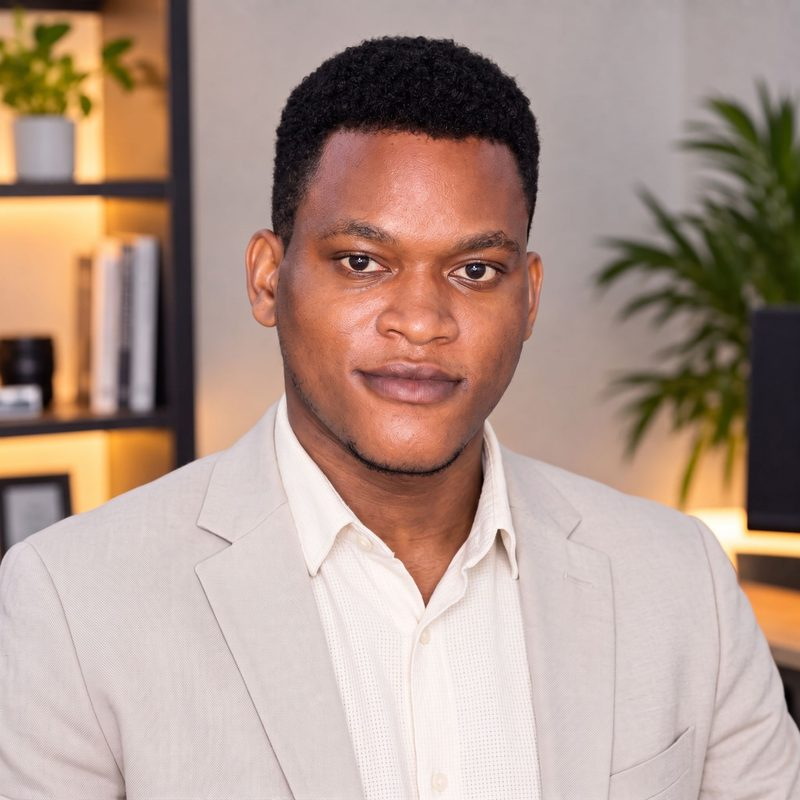
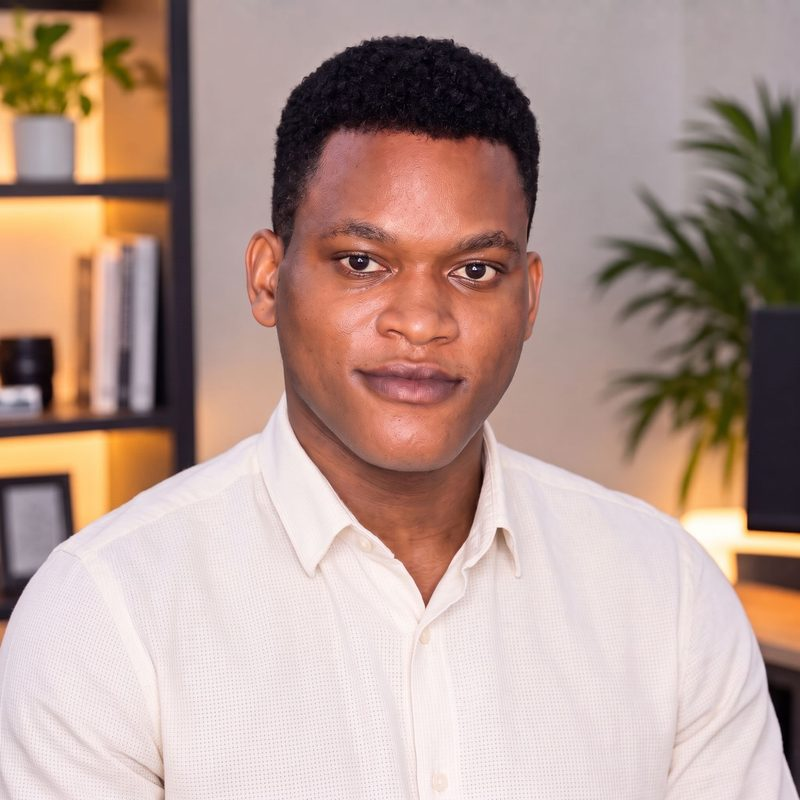
Nouvelle photo, mise en page mobile et hero retravaillé
- Photo en chemise à la place de celle avec la veste (portrait, À propos, visuel Frontend)
- Espacements réduits et blocs empilés proprement sur mobile
- Hero mobile : MAHMA en entier, rôle avant l'accroche, prénom lisible sur la photo
- Titre principal lu en premier (lecteurs d'écran, référencement)
- « Momodev. » en police manuscrite à la place du logo SVG

diff --git a/resources/js/Components/HeroSection.vue b/resources/js/Components/HeroSection.vue
@@ -1,33 +1,60 @@
 <template>
-    <section id="hero" class="grid-lines relative flex min-h-[820px] flex-col overflow-hidden bg-hero text-white">
+    <section id="hero" class="grid-lines relative flex min-h-[640px] flex-col overflow-hidden bg-hero text-white sm:min-h-[820px]">
         <!-- Nom géant en fond, glisse au défilement -->
-        <div aria-hidden="true" class="pointer-events-none absolute inset-x-0 top-[70px] text-center" data-parallax-x>
-            <span data-hero class="disp block whitespace-nowrap text-[clamp(120px,21vw,330px)] text-white/[.14]">Mahma</span>
+        <div aria-hidden="true" class="pointer-events-none absolute inset-x-0 top-[210px] text-center sm:top-[70px]" data-parallax-x>
+            <span data-hero class="disp block whitespace-nowrap text-[clamp(72px,23vw,330px)] text-white/[.14]">Mahma</span>
         </div>
 
         <!-- Portrait détouré -->
-        <div class="pointer-events-none absolute inset-x-0 bottom-0 flex justify-center" data-parallax-y>
+        <div class="pointer-events-none absolute inset-x-0 bottom-0 flex justify-end sm:justify-center" data-parallax-y>
             <img
                 :src="portrait"
                 :alt="t('hero.portraitAlt')"
                 width="1100"
                 height="1059"
                 data-hero-portrait
-                class="block h-auto w-[min(520px,92%)] lg:w-[min(720px,100%)]"
+                class="block h-auto w-[min(360px,85%)] sm:w-[min(520px,92%)] lg:w-[min(720px,100%)]"
             >
         </div>
 
+        <!-- Assombrit le bas du hero sur mobile pour garder le prénom lisible sur la photo -->
+        <div aria-hidden="true" class="pointer-events-none absolute inset-x-0 bottom-0 h-44 bg-gradient-to-t from-black/45 to-transparent sm:hidden" />
+
         <NavigationBar class="relative z-10" @open-menu="$emit('open-menu')" />
 
-        <div class="relative z-10 mx-auto flex w-full max-w-page flex-1 flex-col justify-between gap-10 px-6 pb-10 pt-12">
-            <div class="flex flex-wrap items-start justify-between gap-6">
-                <p data-hero class="m-0 max-w-[300px] text-[13px] font-bold uppercase leading-snug tracking-[.02em] text-hero-ink">
-                    {{ t('hero.tagline') }}
-                </p>
+        <div class="relative z-10 mx-auto flex w-full max-w-page flex-1 flex-col justify-between gap-8 px-6 pb-8 pt-8 sm:gap-10 sm:pb-10 sm:pt-12">
+            <!-- Nom en premier dans le code (lecteurs d'écran, référencement), affiché en bas grâce à `order` -->
+            <div class="order-2 flex flex-wrap items-end justify-between gap-6">
+                <div class="flex flex-col gap-1.5">
+                    <span data-hero aria-hidden="true" class="hidden text-[13px] font-bold text-hero-ink sm:inline">©{{ year }} — {{ t('hero.role') }}</span>
+                    <h1 data-hero class="disp text-[clamp(64px,13vw,190px)] text-white [text-shadow:0_2px_24px_rgba(0,0,0,.25)]">
+                        {{ profile.firstName }}<span class="sr-only"> Mahma — {{ t('hero.role') }}</span>
+                    </h1>
+                </div>
+                <a href="#contact" data-hero class="hidden w-[260px] items-center gap-3 bg-[#111] p-2.5 text-white hover:text-white sm:flex">
+                    <img :src="photo" alt="" class="h-[52px] w-[52px] object-cover">
+                    <span class="flex flex-1 flex-col text-xs leading-snug">
+                        <span class="text-[#A6A6A1]">{{ t('hero.talk') }}</span>
+                        <strong class="text-sm">{{ profile.shortName }}</strong>
+                        <span class="text-[#A6A6A1]">Flutter · Vue · Next · Laravel</span>
+                    </span>
+                    <span class="inline-flex h-8 w-8 items-center justify-center bg-white text-[#111]">
+                        <svg width="14" height="14" viewBox="0 0 24 24" fill="none" stroke="currentColor" stroke-width="2.4" stroke-linecap="round" aria-hidden="true"><path d="M7 17L17 7M8 7h9v9" /></svg>
+                    </span>
+                </a>
+            </div>
+
+            <div class="order-1 flex flex-wrap items-start justify-between gap-6">
+                <div class="flex flex-col gap-2">
+                    <span data-hero aria-hidden="true" class="text-[13px] font-bold text-hero-ink sm:hidden">©{{ year }} — {{ t('hero.role') }}</span>
+                    <p data-hero class="m-0 max-w-[300px] text-[13px] font-bold uppercase leading-snug tracking-[.02em] text-hero-ink">
+                        {{ t('hero.tagline') }}
+                    </p>
+                </div>
                 <a
                     :href="`#${heroProject.id}`"
                     data-hero
-                    class="block w-[170px] bg-white p-2 text-[#111] shadow-[0_10px_30px_rgba(0,0,0,.18)] hover:text-[#111]"
+                    class="hidden w-[170px] bg-white p-2 sm:block text-[#111] shadow-[0_10px_30px_rgba(0,0,0,.18)] hover:text-[#111]"
                     :aria-label="t('hero.viewProject', { name: tr(heroProject.name) })"
                     @click.prevent="$emit('open-project', heroProject.id)"
                 >
@@ -37,24 +64,6 @@
                     <span class="flex justify-between px-0.5 pt-2 text-[11px]">
                         <span><span class="text-[#E04A1F]">●</span> {{ tr(heroProject.name) }}</span>
                         <span>/{{ tr(heroProject.cat) }}</span>
-                    </span>
-                </a>
-            </div>
-
-            <div class="flex flex-wrap items-end justify-between gap-6">
-                <div class="flex flex-col gap-1.5">
-                    <span data-hero class="text-[13px] font-bold text-hero-ink">©{{ year }} — {{ t('hero.role') }}</span>
-                    <h1 data-hero class="disp text-[clamp(76px,13vw,190px)] text-white">{{ profile.firstName }}</h1>
-                </div>
-                <a href="#contact" data-hero class="flex w-[260px] items-center gap-3 bg-[#111] p-2.5 text-white hover:text-white">
-                    <img :src="photo" alt="" class="h-[52px] w-[52px] object-cover">
-                    <span class="flex flex-1 flex-col text-xs leading-snug">
-                        <span class="text-[#A6A6A1]">{{ t('hero.talk') }}</span>
-                        <strong class="text-sm">{{ profile.shortName }}</strong>
-                        <span class="text-[#A6A6A1]">Flutter · Vue · Next · Laravel</span>
-                    </span>
-                    <span class="inline-flex h-8 w-8 items-center justify-center bg-white text-[#111]">
-                        <svg width="14" height="14" viewBox="0 0 24 24" fill="none" stroke="currentColor" stroke-width="2.4" stroke-linecap="round" aria-hidden="true"><path d="M7 17L17 7M8 7h9v9" /></svg>
                     </span>
                 </a>
             </div>

diff --git a/resources/js/Components/AboutSection.vue b/resources/js/Components/AboutSection.vue
@@ -1,6 +1,6 @@
 <template>
     <section id="about">
-        <div class="mx-auto flex max-w-page flex-col gap-14 px-6 py-[110px]">
+        <div class="mx-auto flex max-w-page flex-col gap-10 px-6 py-16 md:gap-14 md:py-[110px]">
             <div class="flex flex-wrap items-start justify-between gap-8">
                 <div class="flex flex-col gap-5">
                     <span class="lbl">{{ t('about.label') }}</span>
@@ -13,22 +13,22 @@
                     :src="work"
                     :alt="t('about.workAlt')"
                     data-reveal="2"
-                    class="block h-[200px] w-[200px] object-cover"
+                    class="block h-[140px] w-[140px] object-cover md:h-[200px] md:w-[200px]"
                     loading="lazy"
                 >
             </div>
 
-            <div class="flex flex-wrap items-start gap-10">
-                <div class="flex flex-[1_1_320px] justify-center">
+            <div class="flex flex-wrap items-start gap-8 md:gap-10">
+                <div class="flex flex-[1_1_280px] justify-center">
                     <img
                         :src="photo"
                         :alt="t('about.photoAlt')"
                         data-reveal="1"
-                        class="block h-[360px] w-[300px] object-cover"
+                        class="block aspect-[5/6] h-auto w-full max-w-[300px] object-cover"
                         loading="lazy"
                     >
                 </div>
-                <div class="flex flex-[1_1_420px] flex-col gap-5">
+                <div class="flex min-w-0 flex-[1_1_300px] flex-col gap-5">
                     <p data-reveal="0" class="m-0 text-sm font-bold uppercase leading-snug">
                         {{ t('about.intro', { name: profile.fullName }) }}
                     </p>
@@ -38,9 +38,9 @@
                             v-for="(stat, i) in stats"
                             :key="stat.value"
                             :data-reveal="i"
-                            class="flex items-center gap-7 bg-surface px-6 py-[18px]"
+                            class="flex items-center gap-5 bg-surface px-5 py-4 md:gap-7 md:px-6 md:py-[18px]"
                         >
-                            <span class="disp min-w-[110px] text-[52px]">{{ stat.value }}</span>
+                            <span class="disp min-w-[76px] text-[40px] md:min-w-[110px] md:text-[52px]">{{ stat.value }}</span>
                             <div>
                                 <div class="text-xs font-bold uppercase"><span class="text-accent">✳</span> {{ tr(stat.label) }}</div>
                                 <div class="text-sm text-muted">{{ tr(stat.text) }}</div>

diff --git a/resources/js/Components/ProjectSection.vue b/resources/js/Components/ProjectSection.vue
@@ -1,6 +1,6 @@
 <template>
     <section id="projects" class="border-t border-line">
-        <div class="mx-auto flex max-w-page flex-col gap-12 px-6 py-[110px]">
+        <div class="mx-auto flex max-w-page flex-col gap-10 px-6 py-16 md:gap-12 md:py-[110px]">
             <div class="flex flex-wrap items-end justify-between gap-6">
                 <div class="flex flex-col gap-5">
                     <span class="lbl">{{ t('projects.label') }}</span>
@@ -22,7 +22,7 @@
                     class="card-zoom flex scroll-mt-24 flex-col gap-3 bg-surface p-2.5 text-ink hover:text-ink lg:[&:nth-child(3n+2)]:mt-20"
                     @click.prevent="$emit('open', project.id)"
                 >
-                    <div class="h-[340px] overflow-hidden">
+                    <div class="h-[280px] overflow-hidden md:h-[340px]">
                         <div class="flex h-full items-center justify-center p-5" :class="project.bg">
                             <img
                                 v-if="project.image"
@@ -45,7 +45,7 @@
                 </a>
             </div>
 
-            <div class="mt-6 flex flex-col">
+            <div class="flex flex-col md:mt-6">
                 <h3 class="mb-3 text-xs font-bold uppercase tracking-[.06em] text-muted">{{ t('projects.others') }}</h3>
                 <a
                     v-for="project in otherProjects"
@@ -53,10 +53,10 @@
                     :key="project.id"
                     :href="`#${project.id}`"
                     data-reveal="0"
-                    class="group flex scroll-mt-24 flex-wrap items-center gap-x-8 gap-y-2 border-t border-line py-[22px] text-ink last:border-b hover:text-ink"
+                    class="group flex scroll-mt-24 flex-wrap items-center gap-x-8 gap-y-1.5 border-t border-line py-5 md:gap-y-2 md:py-[22px] text-ink last:border-b hover:text-ink"
                     @click.prevent="$emit('open', project.id)"
                 >
-                    <span class="flex-[0_0_280px] font-display text-[22px] font-extrabold uppercase transition-colors duration-300 group-hover:text-accent">
+                    <span class="w-full font-display text-xl md:w-auto md:flex-[0_0_280px] md:text-[22px] font-extrabold uppercase transition-colors duration-300 group-hover:text-accent">
                         {{ tr(project.name) }}
                     </span>
                     <span class="flex-[1_1_360px] text-sm text-muted">{{ tr(project.summary) }}</span>

diff --git a/resources/js/Components/SkillsSection.vue b/resources/js/Components/SkillsSection.vue
@@ -1,6 +1,6 @@
 <template>
     <section id="skills" class="border-t border-line">
-        <div class="mx-auto flex max-w-page flex-col gap-14 px-6 py-[110px]">
+        <div class="mx-auto flex max-w-page flex-col gap-10 px-6 py-16 md:gap-14 md:py-[110px]">
             <div class="flex flex-wrap gap-x-20 gap-y-6">
                 <span class="lbl">{{ t('skills.label') }}</span>
                 <h2 class="disp text-[clamp(42px,6vw,84px)]">
@@ -15,12 +15,12 @@
                     v-for="(skill, i) in skills"
                     :key="skill.image"
                     data-reveal="0"
-                    class="group flex flex-wrap gap-x-10 gap-y-6 border-t border-line py-9"
+                    class="group flex flex-wrap gap-x-10 gap-y-4 border-t border-line py-7 md:gap-y-6 md:py-9"
                 >
-                    <span class="flex-[0_0_80px] text-[13px] font-semibold">
+                    <span class="w-full text-[13px] font-semibold md:w-auto md:flex-[0_0_80px]">
                         <span class="text-accent">●</span> {{ String(i + 1).padStart(3, '0') }}
                     </span>
-                    <div class="flex flex-[1_1_380px] flex-col gap-3.5">
+                    <div class="flex min-w-0 flex-[1_1_380px] flex-col gap-3.5">
                         <h3
                             class="disp text-[clamp(28px,3.4vw,44px)] transition-colors duration-300 group-hover:text-accent"
                             :class="{ 'text-accent': i === 0 }"
@@ -32,7 +32,7 @@
                             <span v-for="(tag, j) in skill.tags" :key="j" class="bg-chip px-2.5 py-1.5">{{ tr(tag) }}</span>
                         </div>
                     </div>
-                    <div class="card-zoom h-[190px] flex-[0_1_300px] overflow-hidden" :class="skill.bg">
+                    <div class="card-zoom h-[200px] w-full overflow-hidden md:h-[190px] md:w-auto md:flex-[0_1_300px]" :class="skill.bg">
                         <img :src="skill.image" :alt="tr(skill.alt)" class="block h-full w-full object-cover" loading="lazy">
                     </div>
                 </article>

diff --git a/resources/js/Components/ContactSection.vue b/resources/js/Components/ContactSection.vue
@@ -1,18 +1,18 @@
 <template>
     <section id="contact">
-        <div class="mx-auto flex max-w-page flex-col gap-12 px-6 pb-20 pt-[110px]">
+        <div class="mx-auto flex max-w-page flex-col gap-8 px-6 pb-12 pt-16 md:gap-12 md:pb-20 md:pt-[110px]">
             <div class="flex flex-wrap items-end justify-between gap-6">
-                <h2 class="disp text-[clamp(56px,10vw,150px)]">
+                <h2 class="disp text-[clamp(44px,10vw,150px)]">
                     <span data-reveal="0" class="block">{{ t('contact.title1') }}</span>
                     <span data-reveal="1" class="block text-grey">{{ t('contact.title2') }}</span>
                 </h2>
                 <span class="text-[13px] font-semibold">{{ t('contact.reply') }}</span>
             </div>
 
-            <div class="grid-lines flex flex-wrap items-center gap-10 bg-hero p-[clamp(20px,4vw,48px)]">
+            <div class="grid-lines flex flex-wrap items-center gap-8 bg-hero p-4 sm:p-[clamp(20px,4vw,48px)] md:gap-10">
                 <form
                     data-reveal="0"
-                    class="flex max-w-[420px] flex-[1_1_340px] flex-col gap-3.5 bg-surface p-6 text-ink"
+                    class="flex min-w-0 max-w-[420px] flex-[1_1_300px] flex-col gap-3.5 bg-surface p-5 text-ink md:p-6"
                     @submit.prevent="submitForm"
                 >
                     <span class="font-display text-lg font-extrabold uppercase">{{ t('contact.formTitle') }}</span>
@@ -40,7 +40,7 @@
                     </p>
                 </form>
 
-                <div class="flex flex-[1_1_340px] flex-col gap-5 text-white">
+                <div class="flex min-w-0 flex-[1_1_300px] flex-col gap-5 text-white">
                     <p class="disp text-[clamp(36px,5vw,68px)]">
                         {{ t('contact.idea') }}
                         <span class="block text-hero-ink">{{ t('contact.build') }}</span>

diff --git a/resources/js/Components/AppFooter.vue b/resources/js/Components/AppFooter.vue
@@ -1,7 +1,7 @@
 <template>
     <footer class="bg-inv text-inv-text">
-        <div class="mx-auto flex max-w-page flex-col gap-11 px-6 pt-[72px]">
-            <div data-reveal="0" class="flex flex-wrap items-end justify-between gap-6 border-b border-inv-line pb-10">
+        <div class="mx-auto flex max-w-page flex-col gap-8 px-6 pt-12 md:gap-11 md:pt-[72px]">
+            <div data-reveal="0" class="flex flex-wrap items-end justify-between gap-6 border-b border-inv-line pb-8 md:pb-10">
                 <div class="flex flex-col gap-2.5">
                     <span class="font-script text-[46px] font-bold leading-none">Momodev<span class="text-accent">.</span></span>
                     <p class="m-0 max-w-[400px] text-[15px] text-inv-muted">{{ t('footer.pitch') }}</p>
@@ -15,7 +15,7 @@
                 </a>
             </div>
 
-            <div data-reveal="1" class="flex flex-wrap gap-x-24 gap-y-8 text-sm">
+            <div data-reveal="1" class="grid grid-cols-2 gap-x-8 gap-y-8 text-sm sm:flex sm:flex-wrap sm:gap-x-24">
                 <div class="footer-col">
                     <span class="footer-title">{{ t('footer.nav') }}</span>
                     <a v-for="link in navLinks" :key="link.href" :href="link.href">{{ t(link.key) }}</a>

diff --git a/resources/js/Components/ExperienceSection.vue b/resources/js/Components/ExperienceSection.vue
@@ -1,6 +1,6 @@
 <template>
     <section id="parcours" class="bg-inv text-inv-text">
-        <div class="mx-auto flex max-w-page flex-wrap gap-x-20 gap-y-12 px-6 py-[110px]">
+        <div class="mx-auto flex max-w-page flex-wrap gap-x-20 gap-y-8 px-6 py-16 md:gap-y-12 md:py-[110px]">
             <div class="flex flex-[1_1_300px] flex-col gap-5">
                 <span class="lbl !bg-inv-line !text-inv-text">{{ t('experience.label') }}</span>
                 <h2 class="disp text-[clamp(42px,5vw,72px)]">
@@ -13,7 +13,7 @@
                     v-for="(exp, i) in experiences"
                     :key="exp.place"
                     :data-reveal="i % 2"
-                    class="flex flex-col gap-2.5 bg-inv p-7"
+                    class="flex flex-col gap-2.5 bg-inv p-5 md:p-7"
                 >
                     <span class="text-xs font-bold uppercase" :class="exp.current ? 'text-accent' : 'text-inv-muted'">{{ tr(exp.period) }}</span>
                     <h3 class="m-0 font-display text-xl font-bold uppercase">{{ tr(exp.title) }}</h3>

diff --git a/resources/js/Components/NavigationBar.vue b/resources/js/Components/NavigationBar.vue
@@ -1,8 +1,8 @@
 <template>
     <header class="border-b border-white/20">
         <nav :aria-label="t('nav.main')" class="mx-auto flex max-w-page flex-wrap items-center justify-between gap-3 px-6 py-2">
-            <a href="#hero" class="text-white hover:text-white" :aria-label="t('nav.backHome')">
-                <AppLogo class="h-12 w-auto" />
+            <a href="#hero" class="py-2 font-script text-[34px] font-bold leading-none text-white hover:text-white" :aria-label="t('nav.backHome')">
+                Momodev<span class="text-hero-ink">.</span>
             </a>
             <div class="flex flex-wrap items-center gap-1 text-sm font-medium">
                 <a
@@ -31,7 +31,6 @@
 </template>
 
 <script setup>
-import AppLogo from './AppLogo.vue';
 import ThemeToggle from './ThemeToggle.vue';
 import LanguageToggle from './LanguageToggle.vue';
 import { navLinks as links } from '../data/navigation';

diff --git a/resources/js/Components/FullscreenMenu.vue b/resources/js/Components/FullscreenMenu.vue
@@ -14,7 +14,7 @@
                 class="fixed inset-0 z-50 flex flex-col overflow-y-auto bg-[#0D0D0D] text-[#F3F2EF]"
             >
                 <div class="mx-auto flex w-full max-w-page items-center justify-between px-6 py-2">
-                    <AppLogo class="h-12 w-auto" />
+                    <span class="font-script text-[34px] font-bold leading-none">Momodev<span class="text-[#FF6A3D]">.</span></span>
                     <button
                         ref="closeButton"
                         type="button"
@@ -53,7 +53,6 @@
 
 <script setup>
 import { ref, watch, nextTick } from 'vue';
-import AppLogo from './AppLogo.vue';
 import { menuLinks } from '../data/navigation';
 import { profile } from '../data/portfolio';
 import { useDialog } from '../Composables/useDialog';
